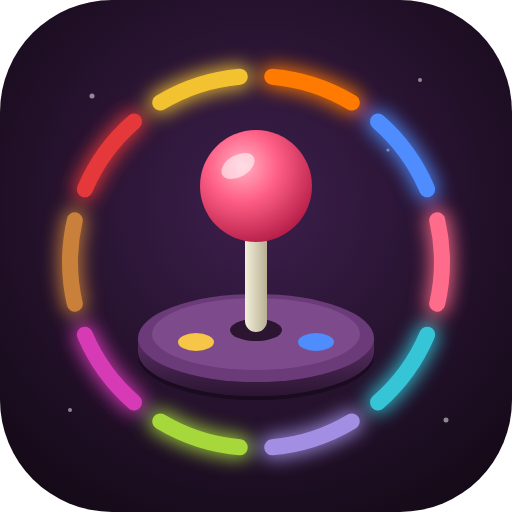
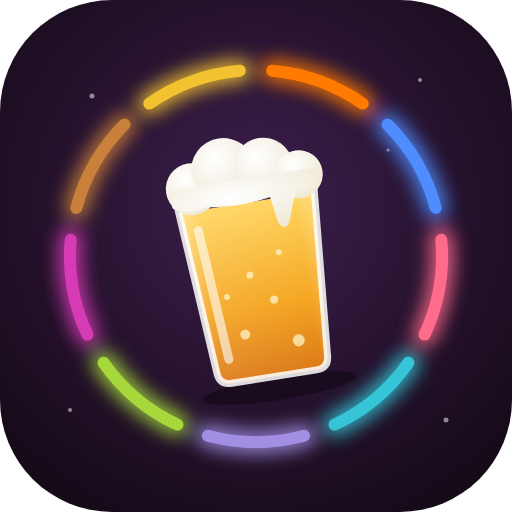
De app heet ATJE, met een nieuw icoon
- Overal ATJE in plaats van Rondje: de hoofdpagina, het app-manifest, de
  poort, het menu van elk spel, de kartgame, privacy, voorwaarden, melden,
  de offline-pagina, de server, de tests en de handleidingen.
- Een nieuw icoon: een glas bier met schuim, een beetje scheef, in de
  neonring met de kleur van elk van de negen spellen. Opnieuw gemaakt: de
  iconen (ook voor Android en de Play Store), het deelplaatje en de banner.
- De hoofdpagina telt nu negen spellen.

Claude-Session: https://claude.ai/code/session_01PPbKnCgFtwn9juUNX2EXqM

Changed region(s): [[0.0938, 0.0938, 0.9062, 0.9375]]

diff --git a/public/speelhal.html b/public/speelhal.html
@@ -3,19 +3,19 @@
 <head>
 <meta charset="utf-8">
 <meta name="viewport" content="width=device-width, initial-scale=1, viewport-fit=cover">
-<title>Rondje</title>
-<meta name="description" content="Tien spellen voor een avond met vrienden, ieder op zijn eigen telefoon: Karnemelk Kart, Bussen, Boerenbruiloft, Mexen, Pak de dealer, Paardenrace, Rotonde, Mijnenveld, Wolvennacht en Borrelbord.">
+<title>ATJE</title>
+<meta name="description" content="Negen spellen voor een avond met vrienden, ieder op zijn eigen telefoon: Karnemelk Kart, Bussen, Boer zoekt vrouw, Mexen, Pak de dealer, Paardenrace, Rotonde, Mijnenveld en Borrelbord.">
 <meta name="theme-color" content="#150b18">
 <meta name="apple-mobile-web-app-capable" content="yes">
 <meta name="mobile-web-app-capable" content="yes">
 <meta name="apple-mobile-web-app-status-bar-style" content="black-translucent">
-<meta name="apple-mobile-web-app-title" content="Rondje">
+<meta name="apple-mobile-web-app-title" content="ATJE">
 <meta name="format-detection" content="telephone=no">
-<meta name="application-name" content="Rondje">
+<meta name="application-name" content="ATJE">
 <!-- als je de link deelt: de naam, een zin en een plaatje -->
 <meta property="og:type" content="website">
-<meta property="og:site_name" content="Rondje">
-<meta property="og:title" content="Rondje">
+<meta property="og:site_name" content="ATJE">
+<meta property="og:title" content="ATJE">
 <meta property="og:description" content="Spellen voor een avond met vrienden. Speel samen, ieder op zijn eigen telefoon.">
 <meta property="og:image" content="https://karnemelk-kart.onrender.com/img/speelhal-deel.png">
 <meta property="og:image:width" content="1200">
@@ -191,9 +191,9 @@ footer .big{font-family:var(--display);font-weight:900;font-size:clamp(60px,12vw
 <main>
   <section class="hero" id="top">
     <p class="kicker">Spellen voor samen</p>
-    <h1>Rondje</h1>
+    <h1>ATJE</h1>
     <div class="hero-card cream">
-      <div class="chips"><span class="chip">Tien spellen</span><span class="chip line">Eén pagina</span></div>
+      <div class="chips"><span class="chip">Negen spellen</span><span class="chip line">Eén pagina</span></div>
       <p>Spellen voor een avond met vrienden, ieder op zijn eigen telefoon. Scroll naar beneden om ze te bekijken, of spring er direct in.</p>
       <div class="hero-list" id="heroList"></div>
     </div>
@@ -207,22 +207,22 @@ footer .big{font-family:var(--display);font-weight:900;font-size:clamp(60px,12vw
   <div class="big">Game over?</div>
   <p>Nog lang niet. Scroll terug naar boven en kies een ander spel.</p>
   <a class="pill glass" href="#top" data-nav>↑ Terug naar boven</a>
-  <p class="fineprint">Rondje is voor 18+. Drinken is nooit verplicht: een slok mag ook water of fris zijn, en drink nooit als je nog moet rijden.</p>
-  <nav class="links" aria-label="Over Rondje"><a href="/voorwaarden">Voorwaarden</a><a href="/privacy">Privacy</a><a href="/melden">Iets melden</a></nav>
+  <p class="fineprint">ATJE is voor 18+. Drinken is nooit verplicht: een slok mag ook water of fris zijn, en drink nooit als je nog moet rijden.</p>
+  <nav class="links" aria-label="Over ATJE"><a href="/voorwaarden">Voorwaarden</a><a href="/privacy">Privacy</a><a href="/melden">Iets melden</a></nav>
 </footer>
 
-<div class="legal" aria-hidden="true"><span>Rondje</span><span>/</span><span>18+</span><span>/</span><span>Drink met mate</span></div>
+<div class="legal" aria-hidden="true"><span>ATJE</span><span>/</span><span>18+</span><span>/</span><span>Drink met mate</span></div>
 
 <div class="menu" id="menu" hidden>
   <nav id="menuNav"></nav>
-  <p class="note">Vanuit elk spel kom je via het menu weer terug in Rondje. <a href="/voorwaarden">Voorwaarden</a> · <a href="/privacy">Privacy</a> · <a href="/melden">Iets melden</a></p>
+  <p class="note">Vanuit elk spel kom je via het menu weer terug in ATJE. <a href="/voorwaarden">Voorwaarden</a> · <a href="/privacy">Privacy</a> · <a href="/melden">Iets melden</a></p>
 </div>
 
 <div class="dock" id="dock">
   <button class="pinkbtn" id="menuBtn" type="button" aria-expanded="false" aria-controls="menu" aria-label="Menu openen">
     <svg id="menuIco" width="20" height="20" viewBox="0 0 24 24" fill="none" stroke="currentColor" stroke-width="2.4" stroke-linecap="round" aria-hidden="true"><path d="M4 7h16M4 12h16M4 17h16"/></svg>
   </button>
-  <span class="logo">Rondje</span>
+  <span class="logo">ATJE</span>
   <div class="seg" id="seg" role="group" aria-label="Ga naar spel"></div>
 </div>
 

diff --git a/public/privacy.html b/public/privacy.html
@@ -3,8 +3,8 @@
 <head>
 <meta charset="utf-8">
 <meta name="viewport" content="width=device-width, initial-scale=1, viewport-fit=cover">
-<title>Privacybeleid · Rondje</title>
-<meta name="description" content="Welke gegevens Rondje gebruikt, waarom, hoe lang, en hoe je ze laat wissen.">
+<title>Privacybeleid · ATJE</title>
+<meta name="description" content="Welke gegevens ATJE gebruikt, waarom, hoe lang, en hoe je ze laat wissen.">
 <meta name="theme-color" content="#150b18">
 <link rel="icon" href="/img/speelhal.svg" type="image/svg+xml">
 <style>
@@ -42,15 +42,15 @@ th{color:var(--soft);font-weight:700;font-size:13px;text-transform:uppercase;let
 <body>
 <main>
 <header>
-  <a class="back" href="/">← Rondje</a>
+  <a class="back" href="/">← ATJE</a>
   <h1>Privacybeleid</h1>
   <p class="date">Laatst bijgewerkt: 26 oktober 2026</p>
 </header>
 
-<p>Rondje is een verzameling spellen die je met vrienden speelt, ieder op zijn eigen telefoon: Karnemelk Kart en negen tafelspellen. We gebruiken zo min mogelijk gegevens: alleen wat nodig is om samen te kunnen spelen. Er zit geen reclame in, geen tracking en geen analysesoftware, en we verkopen niks.</p>
+<p>ATJE is een verzameling spellen die je met vrienden speelt, ieder op zijn eigen telefoon: Karnemelk Kart en negen tafelspellen. We gebruiken zo min mogelijk gegevens: alleen wat nodig is om samen te kunnen spelen. Er zit geen reclame in, geen tracking en geen analysesoftware, en we verkopen niks.</p>
 
 <h2>Wie</h2>
-<p>Rondje wordt gemaakt door een particuliere maker in Nederland. Vragen, of wil je iets laten wissen? Mail naar <strong>{{CONTACT_EMAIL}}</strong>.</p>
+<p>ATJE wordt gemaakt door een particuliere maker in Nederland. Vragen, of wil je iets laten wissen? Mail naar <strong>{{CONTACT_EMAIL}}</strong>.</p>
 
 <h2>Welke gegevens, en waarom</h2>
 <div class="scroll card">
@@ -66,7 +66,7 @@ th{color:var(--soft);font-weight:700;font-size:13px;text-transform:uppercase;let
   </tbody>
 </table>
 </div>
-<p>We vragen niet om je e-mailadres, telefoonnummer, locatie, contacten, camera of microfoon. Rondje gebruikt geen advertenties, geen analysetools en geen andere trackers.</p>
+<p>We vragen niet om je e-mailadres, telefoonnummer, locatie, contacten, camera of microfoon. ATJE gebruikt geen advertenties, geen analysetools en geen andere trackers.</p>
 
 <h2>Grondslag</h2>
 <p>We gebruiken deze gegevens omdat ze nodig zijn om de spellen te laten werken die jij wilt spelen (uitvoering van wat je vraagt), en voor meldingen omdat we een gerechtvaardigd belang hebben bij een veilige en nette plek om te spelen.</p>
@@ -90,7 +90,7 @@ th{color:var(--soft);font-weight:700;font-size:13px;text-transform:uppercase;let
 <p>Je mag vragen welke gegevens we van je hebben, ze laten verbeteren of wissen, en bezwaar maken. Mail daarvoor naar <strong>{{CONTACT_EMAIL}}</strong>. Ben je het niet eens met hoe we met je gegevens omgaan, dan kun je een klacht indienen bij de <a href="https://autoriteitpersoonsgegevens.nl" rel="noopener">Autoriteit Persoonsgegevens</a>.</p>
 
 <h2>Leeftijd</h2>
-<p>Rondje bevat drankspellen en is alleen voor mensen van 18 jaar en ouder.</p>
+<p>ATJE bevat drankspellen en is alleen voor mensen van 18 jaar en ouder.</p>
 
 <h2>Beveiliging</h2>
 <p>Alle verbindingen gaan via HTTPS. De reservekopie van je profiel op je telefoon is ondertekend, zodat niemand er ongemerkt iets aan kan veranderen.</p>

diff --git a/public/voorwaarden.html b/public/voorwaarden.html
@@ -3,8 +3,8 @@
 <head>
 <meta charset="utf-8">
 <meta name="viewport" content="width=device-width, initial-scale=1, viewport-fit=cover">
-<title>Voorwaarden · Rondje</title>
-<meta name="description" content="De afspraken voor Rondje: 18+, verantwoord spelen en nette namen.">
+<title>Voorwaarden · ATJE</title>
+<meta name="description" content="De afspraken voor ATJE: 18+, verantwoord spelen en nette namen.">
 <meta name="theme-color" content="#150b18">
 <link rel="icon" href="/img/speelhal.svg" type="image/svg+xml">
 <style>
@@ -32,15 +32,15 @@ th{color:var(--soft);font-weight:700;font-size:13px;text-transform:uppercase;let
 <body>
 <main>
 <header>
-  <a class="back" href="/">← Rondje</a>
+  <a class="back" href="/">← ATJE</a>
   <h1>Voorwaarden</h1>
   <p class="date">Laatst bijgewerkt: 26 oktober 2026</p>
 </header>
 
-<p>Fijn dat je Rondje speelt. Dit zijn de afspraken. Door Rondje te gebruiken ga je ermee akkoord.</p>
+<p>Fijn dat je ATJE speelt. Dit zijn de afspraken. Door ATJE te gebruiken ga je ermee akkoord.</p>
 
 <h2>1. Alleen voor 18+</h2>
-<p>Rondje bevat drankspellen en is alleen voor mensen van 18 jaar en ouder. Ben je jonger, gebruik Rondje dan niet.</p>
+<p>ATJE bevat drankspellen en is alleen voor mensen van 18 jaar en ouder. Ben je jonger, gebruik ATJE dan niet.</p>
 
 <h2>2. Verantwoord spelen</h2>
 <ul>
@@ -57,13 +57,13 @@ th{color:var(--soft);font-weight:700;font-size:13px;text-transform:uppercase;let
   <li>Doe je niet voor als iemand anders.</li>
   <li>Geen persoonlijke gegevens van anderen (zoals een adres of telefoonnummer).</li>
 </ul>
-<p>Rondje weigert namen met bekende scheldwoorden. De host van een tafel kan spelers van tafel halen. Zie je toch iets wat niet kan? <a href="/melden">Meld het</a>. We kijken naar elke melding en kunnen namen, teksten of spelers weren.</p>
+<p>ATJE weigert namen met bekende scheldwoorden. De host van een tafel kan spelers van tafel halen. Zie je toch iets wat niet kan? <a href="/melden">Meld het</a>. We kijken naar elke melding en kunnen namen, teksten of spelers weren.</p>
 
 <h2>4. Punten en spullen</h2>
-<p>MP-punten en de spullen in de winkel van Karnemelk Kart zijn nep: je koopt ze niet met echt geld, ze hebben geen waarde en je kunt ze nergens voor inwisselen. Rondje is gratis en heeft geen aankopen in de app.</p>
+<p>MP-punten en de spullen in de winkel van Karnemelk Kart zijn nep: je koopt ze niet met echt geld, ze hebben geen waarde en je kunt ze nergens voor inwisselen. ATJE is gratis en heeft geen aankopen in de app.</p>
 
 <h2>5. Geen garantie</h2>
-<p>We doen ons best om Rondje goed te laten werken, maar we beloven niet dat het altijd werkt of foutloos is. Spellen kunnen veranderen of verdwijnen. Voor zover de wet dat toestaat, zijn we niet aansprakelijk voor schade door het gebruik van Rondje, en ook niet voor wat er aan tafel wordt gedronken.</p>
+<p>We doen ons best om ATJE goed te laten werken, maar we beloven niet dat het altijd werkt of foutloos is. Spellen kunnen veranderen of verdwijnen. Voor zover de wet dat toestaat, zijn we niet aansprakelijk voor schade door het gebruik van ATJE, en ook niet voor wat er aan tafel wordt gedronken.</p>
 
 <h2>6. Je gegevens</h2>
 <p>Hoe we met je gegevens omgaan en hoe je ze laat wissen, staat in het <a href="/privacy">privacybeleid</a>.</p>

diff --git a/test/server.test.js b/test/server.test.js
@@ -201,23 +201,23 @@ test('10 spelers racen live samen, met herverbinden, punten en winkel', { timeou
 test('de server levert de game en een gezondheidscheck', async () => {
   const srv = await startServer();
   try {
-    // de hoofdpagina is Rondje met al de spellen
+    // de hoofdpagina is ATJE met al de spellen
     const hall = await fetch(srv.url + '/');
     assert.equal(hall.status, 200);
     const hallHtml = await hall.text();
-    assert.match(hallHtml, /<title>Rondje<\/title>/);
-    for (const href of ['/kart', '/bussen', '/boer', '/mexen', '/dealer', '/paardenrace', '/rotonde', '/mijnenveld', '/borrelbord']) assert.ok(hallHtml.includes(`'${href}'`), `Rondje linkt naar ${href}`);
-    for (const href of ['/megaball', '/stockmarket', '/rodezone', '/weerwolven', '/wolvennacht', '/zuipbord']) assert.ok(!hallHtml.includes(`'${href}'`), `${href} staat niet in Rondje`);
+    assert.match(hallHtml, /<title>ATJE<\/title>/);
+    for (const href of ['/kart', '/bussen', '/boer', '/mexen', '/dealer', '/paardenrace', '/rotonde', '/mijnenveld', '/borrelbord']) assert.ok(hallHtml.includes(`'${href}'`), `ATJE linkt naar ${href}`);
+    for (const href of ['/megaball', '/stockmarket', '/rodezone', '/weerwolven', '/wolvennacht', '/zuipbord']) assert.ok(!hallHtml.includes(`'${href}'`), `${href} staat niet in ATJE`);
     assert.match(hallHtml, /'Karnemelk Kart'/, 'de kartgame heet Karnemelk Kart');
     // namen van merken of grove namen staan nergens meer in
     assert.doesNotMatch(hallHtml, /Mario|Fuck|Wakkerdam|Zuipbord|Weerwolven van/);
     assert.match(hallHtml, /rel="manifest" href="\/speelhal\.webmanifest"/);
-    // op het beginscherm en bij het delen heet het Rondje, met een eigen logo
+    // op het beginscherm en bij het delen heet het ATJE, met een eigen logo
     const hallManifest = await (await fetch(srv.url + '/speelhal.webmanifest')).json();
-    assert.equal(hallManifest.name, 'Rondje');
+    assert.equal(hallManifest.name, 'ATJE');
     assert.equal(hallManifest.start_url, '/');
     for (const icon of hallManifest.icons) assert.equal((await fetch(srv.url + icon.src)).status, 200);
-    assert.match(hallHtml, /property="og:title" content="Rondje"/);
+    assert.match(hallHtml, /property="og:title" content="ATJE"/);
     assert.equal((await fetch(srv.url + '/img/speelhal-deel.png')).status, 200);
     assert.equal((await fetch(srv.url + '/img/speelhal-180.png')).status, 200);
     assert.equal((await (await fetch(srv.url + '/manifest.webmanifest')).json()).start_url, '/kart', 'de kartgame opent de race');

diff --git a/server/index.js b/server/index.js
@@ -1,4 +1,4 @@
-// De server van Rondje: levert de bestanden en regelt de live multiplayer van Karnemelk Kart en de tafelspellen.
+// De server van ATJE: levert de bestanden en regelt de live multiplayer van Karnemelk Kart en de tafelspellen.
 // Start met:  npm start   (standaard op http://localhost:3000)
 import http from 'node:http';
 import { readFileSync, readdirSync, statSync } from 'node:fs';
@@ -56,7 +56,7 @@ addDir(join(ROOT, 'public'), '/');
 
 // Op de pagina's met het privacybeleid, de voorwaarden en het meldformulier staat het e-mailadres voor contact.
 // Zet het in CONTACT_EMAIL (bijvoorbeeld op Render bij Environment); dan staat het er vanzelf in.
-const CONTACT_EMAIL = (process.env.CONTACT_EMAIL || '').trim() || 'het e-mailadres bij Rondje in de Google Play Store';
+const CONTACT_EMAIL = (process.env.CONTACT_EMAIL || '').trim() || 'het e-mailadres bij ATJE in de Google Play Store';
 for (const page of ['/privacy.html', '/voorwaarden.html', '/melden.html']) {
   const f = files.get(page);
   if (!f) continue;
@@ -196,7 +196,7 @@ const server = http.createServer((req, res) => {
     res.writeHead(301, { Location: path.replace(moved[0], moved[1]) + url.search, 'Cache-Control': 'no-cache' });
     return res.end();
   }
-  // Rondje is de hoofdpagina; uitnodigingen (/?room=, /join/) gaan nog steeds naar de kartgame
+  // ATJE is de hoofdpagina; uitnodigingen (/?room=, /join/) gaan nog steeds naar de kartgame
   if (path === '/kart' || path === '/kart/' || path.startsWith('/join/') || (path === '/' && url.searchParams.has('room'))) path = '/index.html';
   else if (path === '/') path = '/speelhal.html';
   else if (path === '/privacy' || path === '/voorwaarden' || path === '/melden') path += '.html';
@@ -309,7 +309,7 @@ const tickTimer = setInterval(() => hub.tick(), 1000 / 60);
 const busTimer = setInterval(() => { busHub.tick(); boerHub.tick(); mexHub.tick(); dealerHub.tick(); paardHub.tick(); rotondeHub.tick(); mijnHub.tick(); bordHub.tick(); }, 5000);
 
 server.listen(PORT, HOST, () => {
-  log(`Rondje draait op http://localhost:${PORT}`);
+  log(`ATJE draait op http://localhost:${PORT}`);
   for (const ifs of Object.values(os.networkInterfaces())) {
     for (const i of ifs || []) {
       if (i.family === 'IPv4' && !i.internal) log(`Op je wifi (telefoon): http://${i.address}:${PORT}`);

diff --git a/public/js/poort.js b/public/js/poort.js
@@ -1,9 +1,9 @@
-// De poort van Rondje, op elke speelpagina: de eerste keer vraagt hij of je 18 of ouder bent (er zitten drankspellen
+// De poort van ATJE, op elke speelpagina: de eerste keer vraagt hij of je 18 of ouder bent (er zitten drankspellen
 // in), met een paar regels over verantwoord spelen en de voorwaarden. Daarna onthoudt deze telefoon het.
 // Ook meldt hij de service worker aan, voor een nette pagina als je geen internet hebt (/sw.js).
 (() => {
   'use strict';
-  const KEY = 'rondje-18';
+  const KEY = 'atje-18';
   const VERSION = '1';   // ophogen als de voorwaarden flink veranderen: dan vraagt hij het opnieuw
 
   if ('serviceWorker' in navigator && window.isSecureContext) {
@@ -38,8 +38,8 @@
   .rpoort .nee{color:#c9bccb;box-shadow:inset 0 0 0 2px rgba(201,188,203,.35)}}`;
 
   const welcome = `
-    <div class="t"><b>18+</b><h2 id="rpoort-h">Welkom bij Rondje</h2></div>
-    <p>Rondje is voor een avond met vrienden. Er zitten drankspellen in, daarom is Rondje alleen voor mensen van <strong>18 jaar en ouder</strong>.</p>
+    <div class="t"><b>18+</b><h2 id="rpoort-h">Welkom bij ATJE</h2></div>
+    <p>ATJE is voor een avond met vrienden. Er zitten drankspellen in, daarom is ATJE alleen voor mensen van <strong>18 jaar en ouder</strong>.</p>
     <ul>
       <li>Een slok mag ook water, fris of karnemelk zijn.</li>
       <li>Drink nooit als je nog moet rijden.</li>
@@ -50,7 +50,7 @@
     <button class="nee" type="button" data-poort="nee">Ik ben jonger dan 18</button>`;
   const tooYoung = `
     <div class="t"><b>18+</b><h2 id="rpoort-h">Nog even wachten</h2></div>
-    <p>Rondje is alleen voor mensen van 18 jaar en ouder. Kom terug als je 18 bent!</p>
+    <p>ATJE is alleen voor mensen van 18 jaar en ouder. Kom terug als je 18 bent!</p>
     <p class="s">Meer weten over alcohol en jongeren? Kijk op <a href="https://www.alcoholinfo.nl" rel="noopener">alcoholinfo.nl</a>.</p>
     <button class="nee" type="button" data-poort="terug">Toch 18 of ouder? Terug</button>`;
 

diff --git a/test/play.test.js b/test/play.test.js
@@ -30,7 +30,7 @@ test('de server: privacybeleid, voorwaarden, melden, offline-pagina en de poort 
   try {
     for (const [path, title] of [['/privacy', 'Privacybeleid'], ['/voorwaarden', 'Voorwaarden'], ['/melden', 'Iets melden']]) {
       const html = await (await fetch(srv.url + path)).text();
-      assert.match(html, new RegExp(`<title>${title} · Rondje</title>`), path);
+      assert.match(html, new RegExp(`<title>${title} · ATJE</title>`), path);
       assert.ok(html.includes('hallo@voorbeeld.nl'), `${path}: het contactadres staat erin`);
       assert.ok(!html.includes('{{CONTACT_EMAIL}}'), path);
       assert.ok(!html.includes('/js/poort.js'), `${path} is altijd te lezen, ook zonder de poort`);
@@ -75,14 +75,14 @@ test('de server: privacybeleid, voorwaarden, melden, offline-pagina en de poort 
 
 test('de koppeling met de Android-app (Digital Asset Links)', async () => {
   const print = Array.from({ length: 32 }, (_, i) => (i * 7 % 256).toString(16).padStart(2, '0')).join(':');
-  const srv = await startServer({ env: { ANDROID_PACKAGE: 'nl.rondje.app', ANDROID_SHA256: `${print.toLowerCase()}, nonsens` } });
+  const srv = await startServer({ env: { ANDROID_PACKAGE: 'nl.atje.app', ANDROID_SHA256: `${print.toLowerCase()}, nonsens` } });
   try {
     const r = await fetch(srv.url + '/.well-known/assetlinks.json');
     assert.equal(r.status, 200);
     assert.match(r.headers.get('content-type'), /application\/json/);
     const [link] = await r.json();
     assert.deepEqual(link.relation, ['delegate_permission/common.handle_all_urls']);
-    assert.deepEqual(link.target, { namespace: 'android_app', package_name: 'nl.rondje.app', sha256_cert_fingerprints: [print.toUpperCase()] });
+    assert.deepEqual(link.target, { namespace: 'android_app', package_name: 'nl.atje.app', sha256_cert_fingerprints: [print.toUpperCase()] });
   } finally {
     await srv.stop();
   }

diff --git a/public/bussen.html b/public/bussen.html
@@ -21,7 +21,7 @@
 :root{
   /* Layout: zoals een pokerapp. Bovenin een glazen balk, in het midden een groene vilten tafel met
      de spelers rondom (jij altijd onderaan) en de kaarten van de fase op het vilt, onderin een donkere
-     actiebalk met wat jij nu kunt doen. Eromheen de nachtlucht van Rondje. */
+     actiebalk met wat jij nu kunt doen. Eromheen de nachtlucht van ATJE. */
   --night:#150b18;
   --night-2:#24112b;
   --night-3:#0b060d;
@@ -446,7 +446,7 @@ const me = (() => {
     crypto.getRandomValues(a);
     token = [...a].map((x) => abc[x & 63]).join('');
   }
-  // je naam neemt hij over van een ander spel in Rondje als je die daar al eens hebt ingevuld
+  // je naam neemt hij over van een ander spel in ATJE als je die daar al eens hebt ingevuld
   const name = typeof v.name === 'string' && v.name ? v.name : ['bussen-ik', 'boer-ik', 'mexen-ik', 'dealer-ik', 'paard-ik', 'rotonde-ik', 'mijn-ik', 'bord-ik'].filter((k) => k !== KEY.me).map((k) => (store.get(k, {}) || {}).name).find((n) => typeof n === 'string' && n);
   const o = { token, name: typeof name === 'string' ? name.slice(0, B.NAME_MAX) : '' };
   store.set(KEY.me, o);
@@ -1140,7 +1140,7 @@ function menuHTML() {
     ${S ? `<button type="button" data-act="share">Uitnodigen <span>${S.code}</span></button>
     <button type="button" data-act="leaveask">Verlaat tafel <span>›</span></button>` : ''}
     <a href="/melden?spel=bussen${S ? `&code=${S.code}` : ''}">Iets melden <span>›</span></a>
-    <a href="/">Naar Rondje <span>›</span></a>
+    <a href="/">Naar ATJE <span>›</span></a>
   </nav>`;
 }
 

diff --git a/public/mexen.html b/public/mexen.html
@@ -344,7 +344,7 @@ const store = {
 };
 
 // wie ben ik: een geheime sleutel per telefoon, zodat je na wegvallen op je eigen plek terugkomt.
-// Je naam neemt hij over van een ander spel in Rondje als je die daar al eens hebt ingevuld.
+// Je naam neemt hij over van een ander spel in ATJE als je die daar al eens hebt ingevuld.
 const me = (() => {
   const v = store.get(KEY.me, {}) || {};
   let token = typeof v.token === 'string' && /^[A-Za-z0-9_-]{16,64}$/.test(v.token) ? v.token : null;
@@ -785,7 +785,7 @@ function menuHTML() {
     ${game && host && S.phase === 'uitslag' ? '<button type="button" data-act="againask">Terug naar de lobby <span>›</span></button>' : ''}
     ${S ? '<button type="button" data-act="leaveask">Verlaat tafel <span>›</span></button>' : ''}
     <a href="/melden?spel=mexen${S ? `&code=${S.code}` : ''}">Iets melden <span>›</span></a>
-    <a href="/">Naar Rondje <span>›</span></a>
+    <a href="/">Naar ATJE <span>›</span></a>
   </nav>`;
 }
 

diff --git a/public/boer.html b/public/boer.html
@@ -421,7 +421,7 @@ const store = {
 };
 
 // wie ben ik: een geheime sleutel per telefoon, zodat je na wegvallen op je eigen plek terugkomt.
-// Je naam neemt hij over van een ander spel in Rondje als je die daar al eens hebt ingevuld.
+// Je naam neemt hij over van een ander spel in ATJE als je die daar al eens hebt ingevuld.
 const me = (() => {
   const v = store.get(KEY.me, {}) || {};
   let token = typeof v.token === 'string' && /^[A-Za-z0-9_-]{16,64}$/.test(v.token) ? v.token : null;
@@ -917,7 +917,7 @@ function menuHTML() {
     ${game && host && S.phase !== 'tellen' ? '<button type="button" data-act="againask">Terug naar de lobby <span>›</span></button>' : ''}
     ${S ? '<button type="button" data-act="leaveask">Verlaat tafel <span>›</span></button>' : ''}
     <a href="/melden?spel=boer${S ? `&code=${S.code}` : ''}">Iets melden <span>›</span></a>
-    <a href="/">Naar Rondje <span>›</span></a>
+    <a href="/">Naar ATJE <span>›</span></a>
   </nav>`;
 }
 

diff --git a/public/zuipbord.html b/public/zuipbord.html
@@ -381,7 +381,7 @@ const store = {
 };
 
 // wie ben ik: een geheime sleutel per telefoon, zodat je na wegvallen op je eigen plek terugkomt.
-// Je naam neemt hij over van een ander spel in Rondje als je die daar al eens hebt ingevuld.
+// Je naam neemt hij over van een ander spel in ATJE als je die daar al eens hebt ingevuld.
 const me = (() => {
   const v = store.get(KEY.me, {}) || {};
   let token = typeof v.token === 'string' && /^[A-Za-z0-9_-]{16,64}$/.test(v.token) ? v.token : null;
@@ -1012,7 +1012,7 @@ function menuHTML() {
     ${game && host ? '<button type="button" data-act="againask">Terug naar de lobby <span>›</span></button>' : ''}
     ${S ? '<button type="button" data-act="leaveask">Verlaat tafel <span>›</span></button>' : ''}
     <a href="/melden?spel=borrelbord${S ? `&code=${S.code}` : ''}">Iets melden <span>›</span></a>
-    <a href="/">Naar Rondje <span>›</span></a>
+    <a href="/">Naar ATJE <span>›</span></a>
   </nav>`;
 }
 

diff --git a/public/paardenrace.html b/public/paardenrace.html
@@ -379,7 +379,7 @@ const store = {
 };
 
 // wie ben ik: een geheime sleutel per telefoon, zodat je na wegvallen op je eigen plek terugkomt.
-// Je naam neemt hij over van een ander spel in Rondje als je die daar al eens hebt ingevuld.
+// Je naam neemt hij over van een ander spel in ATJE als je die daar al eens hebt ingevuld.
 const me = (() => {
   const v = store.get(KEY.me, {}) || {};
   let token = typeof v.token === 'string' && /^[A-Za-z0-9_-]{16,64}$/.test(v.token) ? v.token : null;
@@ -899,7 +899,7 @@ function menuHTML() {
     ${game && host ? '<button type="button" data-act="againask">Terug naar de lobby <span>›</span></button>' : ''}
     ${S ? '<button type="button" data-act="leaveask">Verlaat tafel <span>›</span></button>' : ''}
     <a href="/melden?spel=paardenrace${S ? `&code=${S.code}` : ''}">Iets melden <span>›</span></a>
-    <a href="/">Naar Rondje <span>›</span></a>
+    <a href="/">Naar ATJE <span>›</span></a>
   </nav>`;
 }
 
